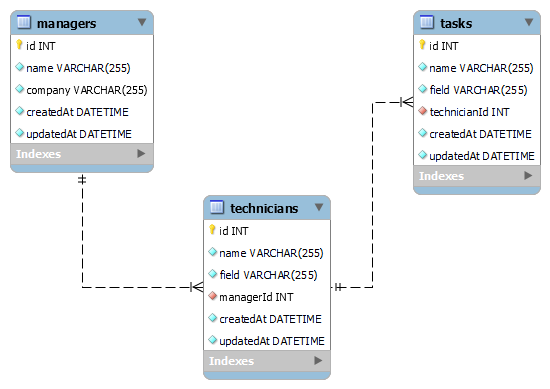
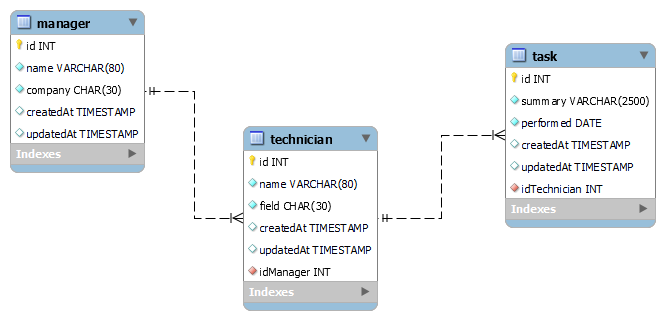
refactor: change primarily db connection, route names & improved schema

diff --git a/src/database/init.js b/src/database/init.js
@@ -11,33 +11,33 @@ exports.init = {
   createTables: {
     manager: `
       CREATE TABLE IF NOT EXISTS manager(
-          idManager INT NOT NULL PRIMARY KEY AUTO_INCREMENT,
+          id INT NOT NULL PRIMARY KEY AUTO_INCREMENT,
           name VARCHAR(80) NOT NULL,
           company CHAR(30) NOT NULL,
-          createdAt TIMESTAMP NOT NULL,
-          updatedAt TIMESTAMP NOT NULL,
+          createdAt TIMESTAMP DEFAULT CURRENT_TIMESTAMP,
+          updatedAt TIMESTAMP DEFAULT CURRENT_TIMESTAMP
       );
       `,
     technician: `
       CREATE TABLE IF NOT EXISTS technician(
-          idTechnician INT NOT NULL PRIMARY KEY AUTO_INCREMENT,
+          id INT NOT NULL PRIMARY KEY AUTO_INCREMENT,
           name VARCHAR(80) NOT NULL,
           field CHAR(30) NOT NULL,
-          createdAt TIMESTAMP NOT NULL,
-          updatedAt TIMESTAMP NOT NULL,
+          createdAt TIMESTAMP DEFAULT CURRENT_TIMESTAMP,
+          updatedAt TIMESTAMP DEFAULT CURRENT_TIMESTAMP,
           idManager INT NOT NULL,
-          CONSTRAINT technician_manager FOREIGN KEY(idManager) REFERENCES manager(idManager)
+          CONSTRAINT technician_manager FOREIGN KEY(idManager) REFERENCES manager(id)
       );
       `,
     task: `
       CREATE TABLE IF NOT EXISTS task(
-          idTask INT NOT NULL PRIMARY KEY AUTO_INCREMENT,
+          id INT NOT NULL PRIMARY KEY AUTO_INCREMENT,
           summary VARCHAR(2500) NOT NULL,
           performed DATE NOT NULL,
-          createdAt TIMESTAMP NOT NULL,
-          updatedAt TIMESTAMP NOT NULL,
+          createdAt TIMESTAMP DEFAULT CURRENT_TIMESTAMP,
+          updatedAt TIMESTAMP DEFAULT CURRENT_TIMESTAMP,
           idTechnician INT NOT NULL,
-          CONSTRAINT manager_technician FOREIGN KEY(idTechnician) REFERENCES technician(idTechnician)
+          CONSTRAINT task_technician FOREIGN KEY(idTechnician) REFERENCES technician(id)
       );
       `,
   },

diff --git a/src/controllers/controllerManager.js b/src/controllers/controllerManager.js
@@ -1,25 +1,24 @@
 const { responseSuccess, responseError } = require("../utils/response");
-// const { connection } = require("../configs/configDb.js");
-// const { sql } = require("../database/sql");
-const { Manager } = require("../models/Manager");
-const { Technician } = require("../models/Technician");
-const { Task } = require("../models/Task");
+const { connection } = require("../configs/mysqlConfig");
+const { sql } = require("../database/sql");
 
 class ControllerManager {
+  // General functions
+
   async listManager(req, res) {
-    // connection.query(sql.selectManagers, (error, results) => {
-    //   if (error) return responseError(res, error);
-    //   else responseSuccess(res, results);
-    // });
+    connection.query(sql.selectManagers, (error, results) => {
+      if (error) return responseError(res, error);
+      else responseSuccess(res, results);
+    });
   }
 
   async createManager(req, res) {
-    const { name, company } = req.params;
+    const { name, company } = req.body;
 
-    // connection.query(sql.createManager(name, company), (error, results) => {
-    //   if (error) return responseError(res, error);
-    //   else responseSuccess(res, results, 201);
-    // });
+    connection.query(sql.createManager(name, company), (error, results) => {
+      if (error) return responseError(res, error);
+      else responseSuccess(res, results, 201);
+    });
   }
 }
 

diff --git a/src/configs/mysqlConfig.js b/src/configs/mysqlConfig.js
@@ -1,5 +1,6 @@
-const mysql = require("mysql2");
+const mysql = require("mysql");
 require("dotenv").config({ path: "src/configs/.env" });
+const { init } = require("../database/init");
 
 const connection = mysql.createConnection({
   host: "localhost",
@@ -7,4 +8,23 @@ const connection = mysql.createConnection({
   password: process.env.MYSQL_PASSWORD,
 });
 
-module.exports = connection;
+connection.query(init.createDb, (error, results) => {
+  if (error) throw error;
+  else
+    connection.query(init.useDb, (error, results) => {
+      if (error) throw error;
+      else {
+        connection.query(init.createTables.manager, (error, results) => {
+          if (error) throw error;
+        });
+        connection.query(init.createTables.technician, (error, results) => {
+          if (error) throw error;
+        });
+        connection.query(init.createTables.task, (error, results) => {
+          if (error) throw error;
+        });
+      }
+    });
+});
+
+module.exports.connection = connection;

diff --git a/src/database/sql.js b/src/database/sql.js
@@ -4,14 +4,7 @@ exports.sql = {
   `,
   createManager(name, company) {
     const query = `
-      INSERT INTO manager(
-          name,
-          company,
-          createdAt,
-          updatedAt
-      ) VALUES (
-          ${name}, ${company}, ${Date.now()}, ${Date.now()}
-      )
+      INSERT INTO manager(name, company) VALUES ("${name}", "${company}");
     `;
 
     return query;

diff --git a/src/configs/sequelizeConfig.js b/src/configs/sequelizeConfig.js
@@ -1,6 +1,6 @@
 const Sequelize = require("sequelize");
 require("dotenv").config({ path: "src/configs/.env" });
-const connection = require("./mysqlConfig");
+const connection = require("./sequelize.mysql2Config");
 const { init } = require("../database/init");
 
 connection.query(init.createDb, (error, results) => {

diff --git a/src/configs/sequelize.mysql2Config.js b/src/configs/sequelize.mysql2Config.js
@@ -1,0 +1,10 @@
+const mysql = require("mysql2");
+require("dotenv").config({ path: "src/configs/.env" });
+
+const connection = mysql.createConnection({
+  host: "localhost",
+  user: process.env.MYSQL_USER,
+  password: process.env.MYSQL_PASSWORD,
+});
+
+module.exports = connection;

diff --git a/src/index.js b/src/index.js
@@ -3,7 +3,7 @@ const { routes } = require("./routes");
 
 const port = process.env.PORT || 8888;
 const app = express();
-app.use(routes);
 app.use(express.json());
+app.use(routes);
 
 app.listen(port, () => console.log("api running on port", port));

diff --git a/src/models/Technician.js b/src/models/Technician.js
@@ -1,5 +1,5 @@
 const { DataTypes } = require("sequelize");
-const db = require("../configs/db");
+const db = require("../configs/sequelizeConfig");
 const Manager = require("./Manager");
 
 const Technician = db.define("technician", {

diff --git a/src/models/Task.js b/src/models/Task.js
@@ -1,5 +1,5 @@
 const { DataTypes } = require("sequelize");
-const db = require("../configs/db");
+const db = require("../configs/sequelizeConfig");
 const Technician = require("./Technician");
 
 const Task = db.define("task", {

diff --git a/src/models/Manager.js b/src/models/Manager.js
@@ -1,5 +1,5 @@
 const { DataTypes } = require("sequelize");
-const db = require("../configs/db");
+const db = require("../configs/sequelizeConfig");
 
 const Manager = db.define("manager", {
   id: {
